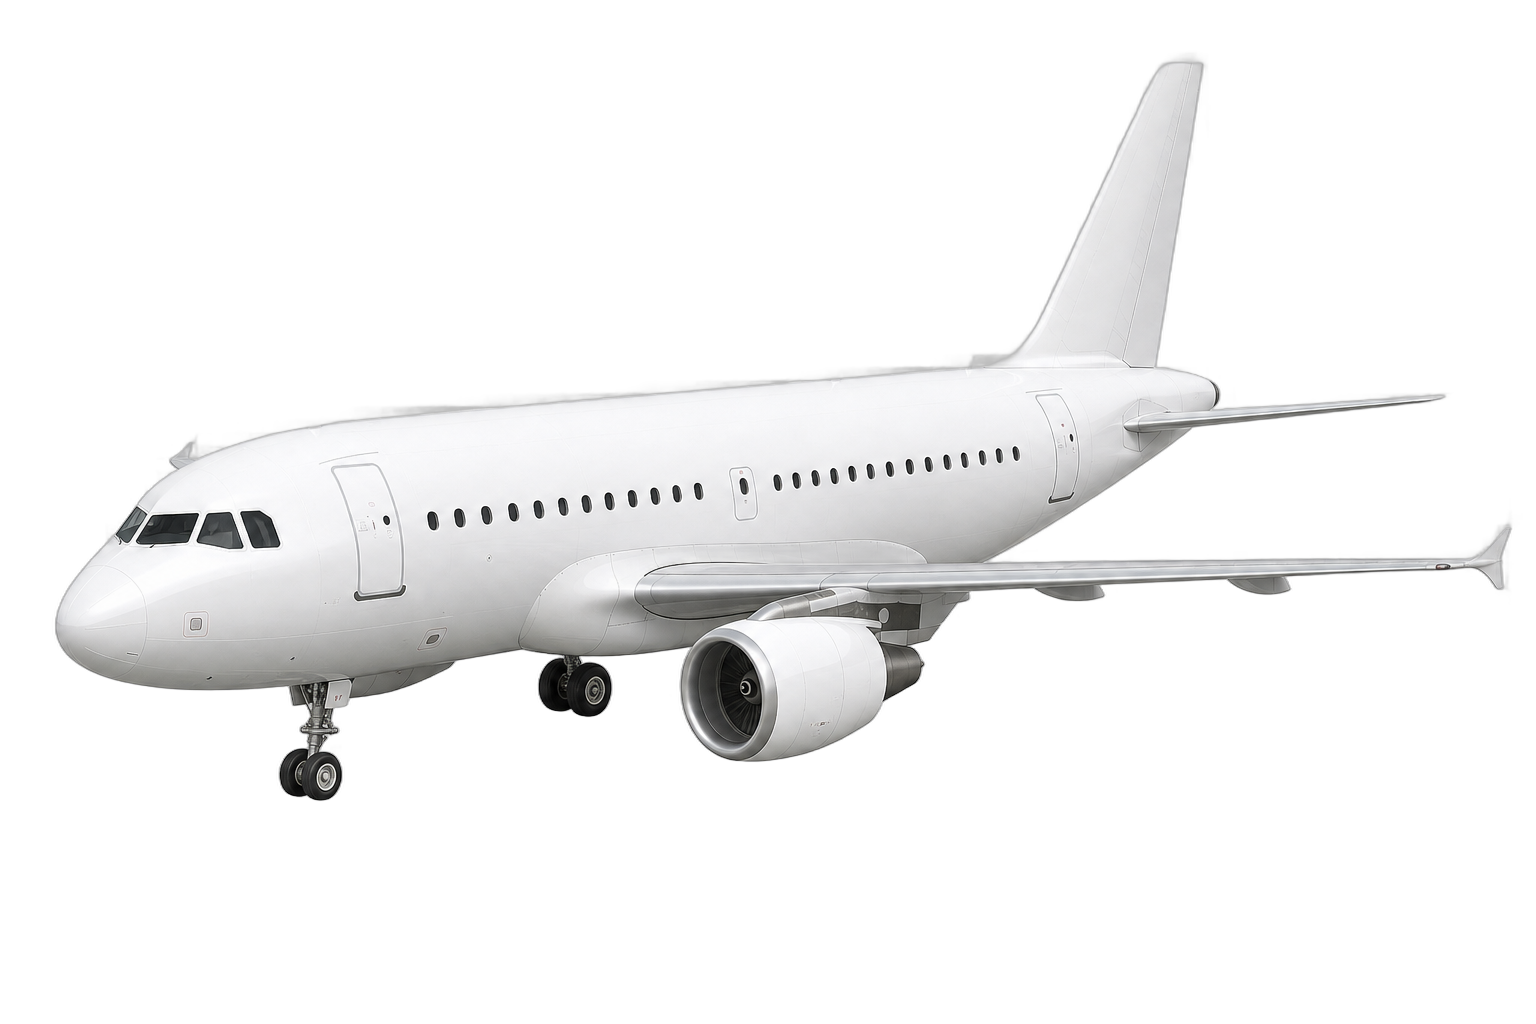
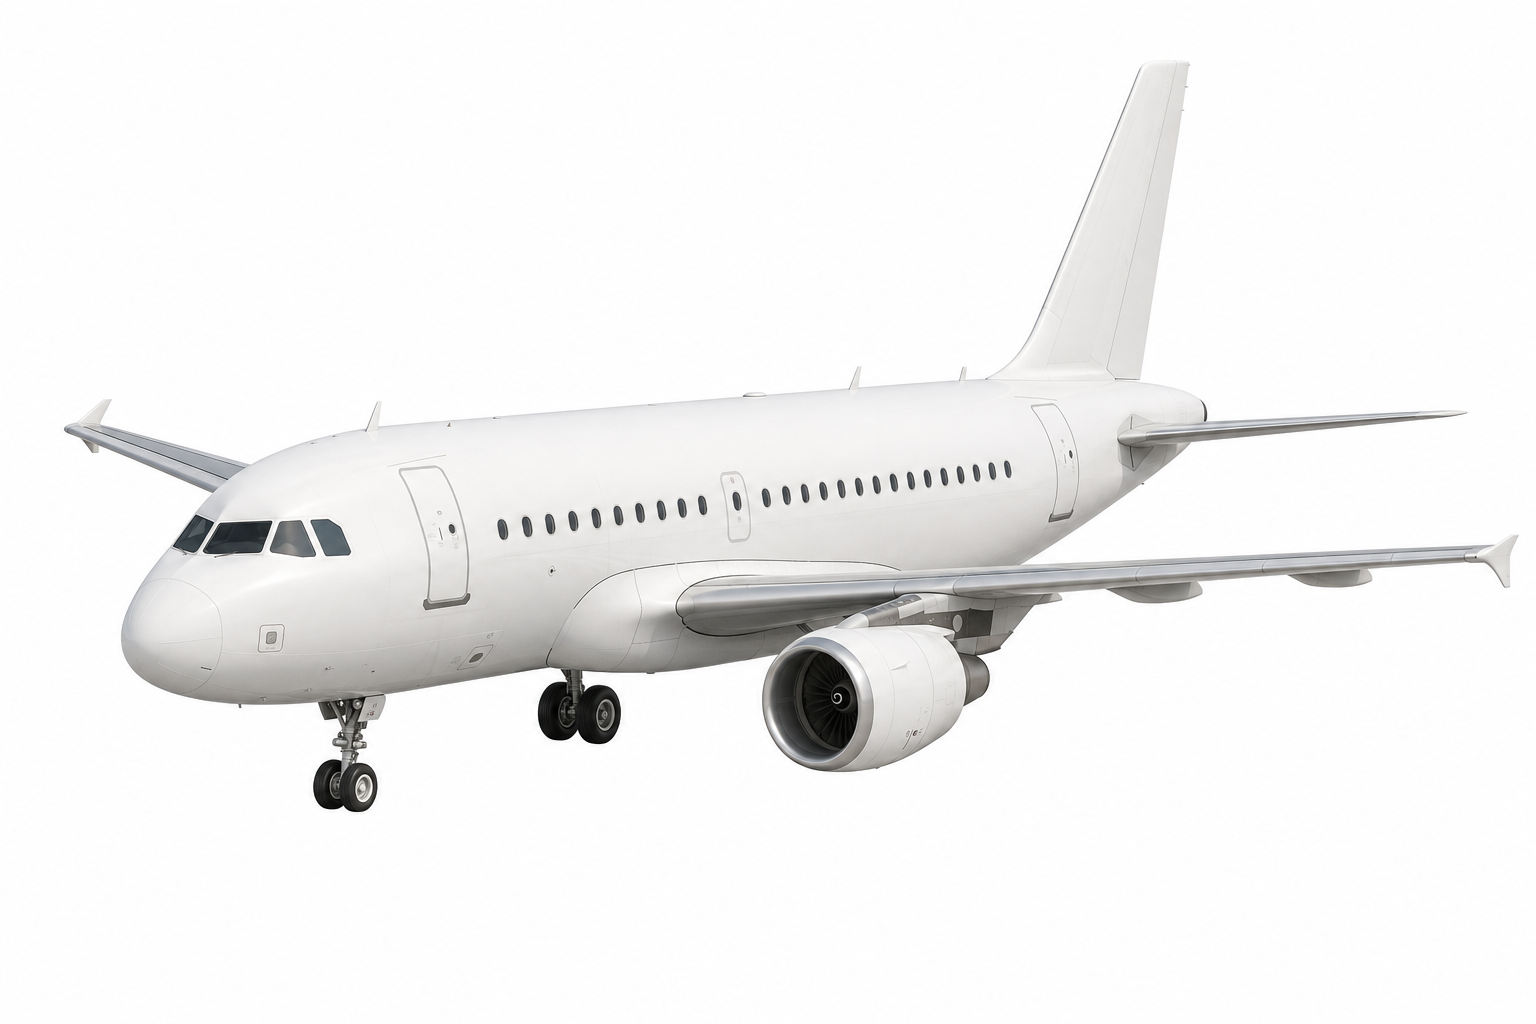
Refaz o A319 com fundo branco solido em vez de transparente
A primeira geracao usava remove_background: true e saia com uma sombra cinza
"queimada" na borda do recorte, mais visivel atras da deriva e do nariz.
Fundo branco solido evita esse artefato: contorno mais limpo, sem distorcao.

Recorte por alfa fica para depois, por pedido explicito -- nao agora. O
catalogo.json guarda os dois modos, entao reverter e so trocar o campo e
regerar.

Claude-Session: https://claude.ai/code/session_014fHSEU1w3jw3Xu53W5MgTx

diff --git a/assets/aircraft/a319/README.md b/assets/aircraft/a319/README.md
@@ -8,7 +8,7 @@ Primeiro teste do pipeline da Meshy como substituto do desenho vetorial.
 | `a319-lateral.png` | perfil lateral, câmera perpendicular |
 | `a319-traseira.png` | três-quartos traseiro, ~35° da cauda |
 
-1536×1024 (3:2), RGBA com fundo transparente, `gpt-image-2`, 9 créditos cada.
+1536×1024 (3:2), fundo branco sólido (`#FFFFFF`), `gpt-image-2`, 9 créditos cada.
 `catalogo.json` traz os prompts e `manifest.json` o id da task, o modelo e o
 custo real de cada geração — é o que permite reproduzir ou auditar o lote.
 
@@ -17,6 +17,16 @@ custo real de cada geração — é o que permite reproduzir ou auditar o lote.
 Gerado **só por prompt**, sem imagem de referência. Nenhuma foto de terceiro
 entrou na cadeia, o que mantém a promessa do README do projeto de que nenhum
 ativo veio de produto de terceiros.
+
+## Fundo
+
+A primeira geração usou `remove_background: true` e saiu com uma sombra cinza
+"queimada" na borda do recorte — visível sobretudo atrás da deriva e do nariz.
+Por pedido do autor, a versão publicada usa fundo branco sólido
+(`remove_background: false` + `SOLID PURE WHITE background` no prompt) em vez
+de transparência: sem esse degradê, contorno mais limpo. Recorte por alfa fica
+para depois, quando fizer sentido — o `catalogo.json` já traz os dois modos,
+então é só reverter o campo e regerar.
 
 ## A ficha que o prompt trava
 
